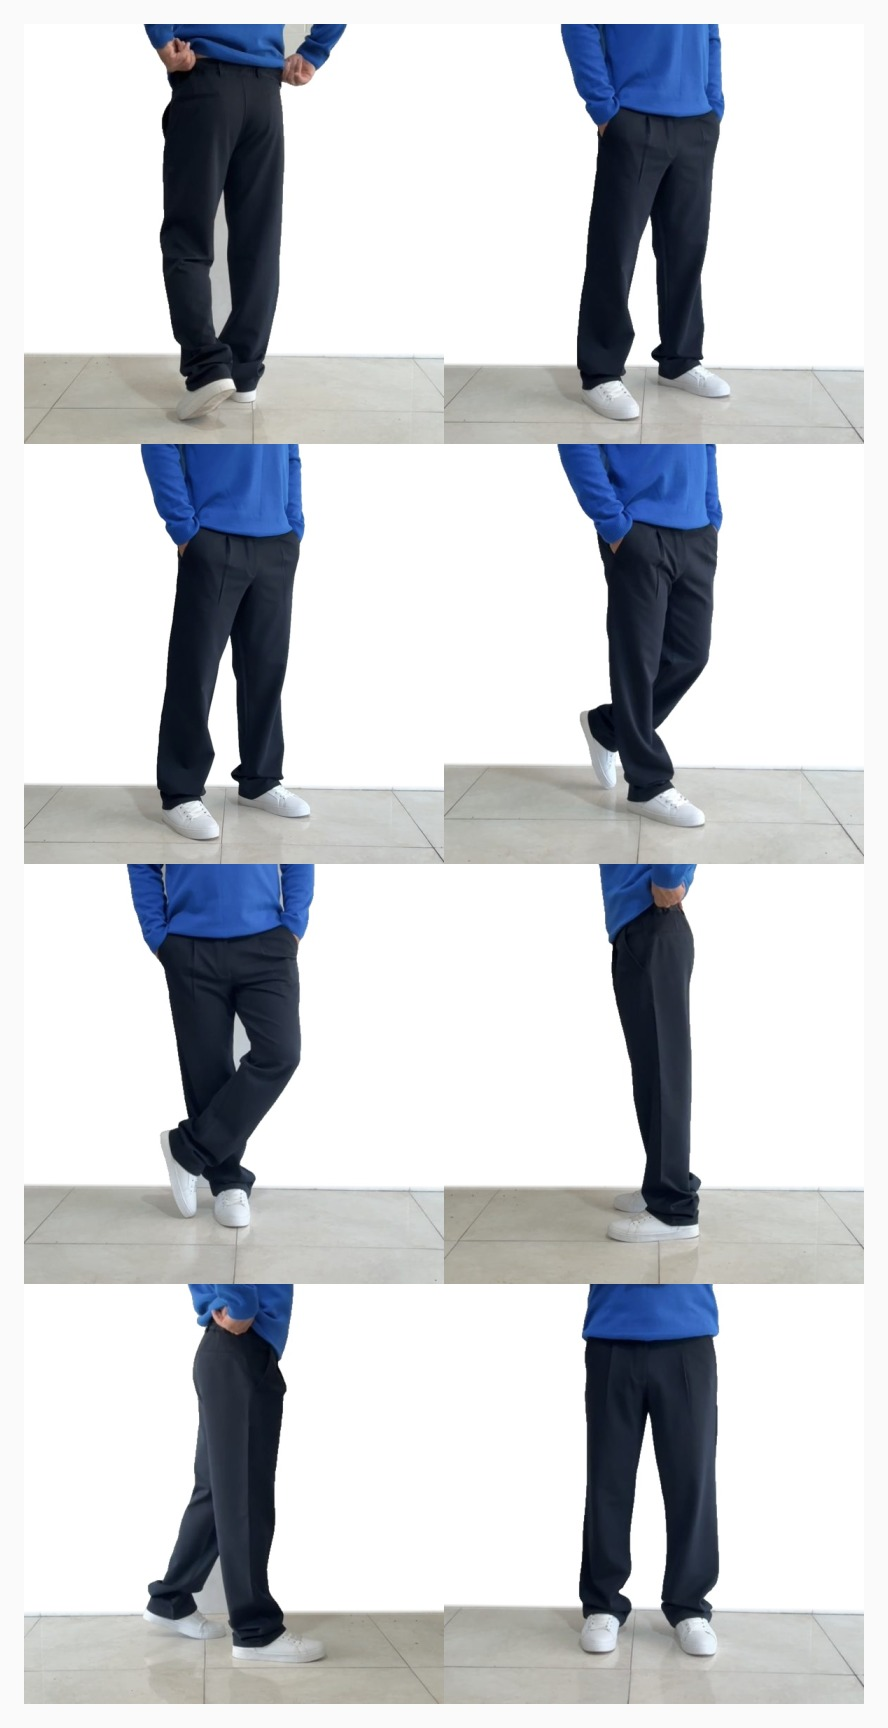
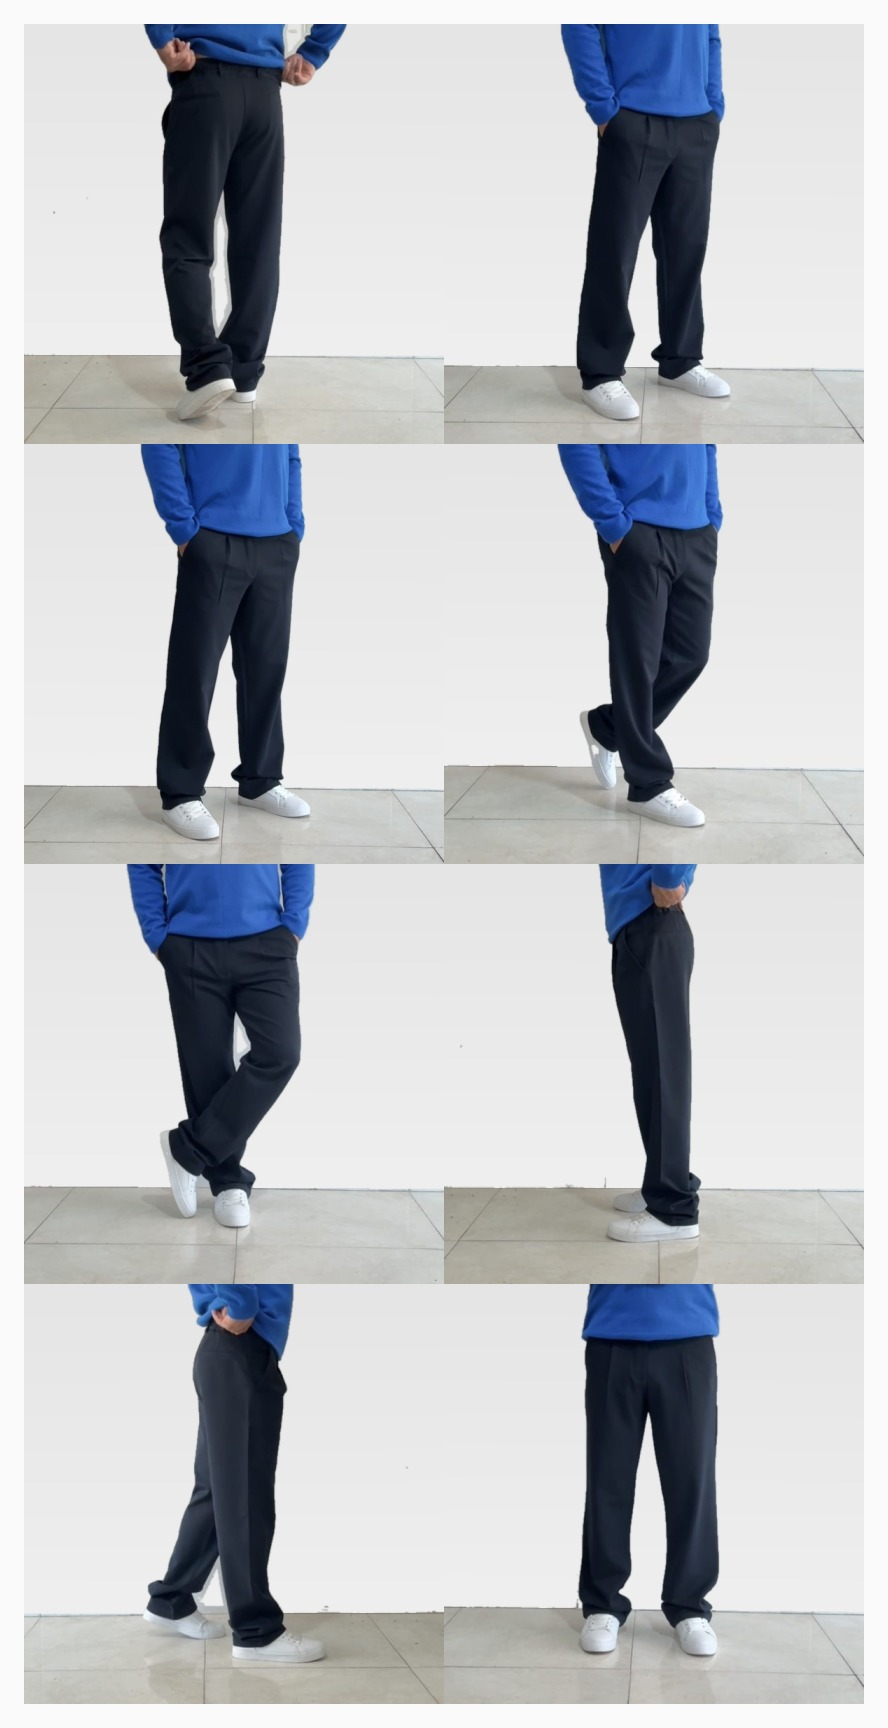
Grey studio wall + clean the gap between the legs
- wall is now a soft light grey (RGB 229 at the top to 239 at the floor
  line) instead of pure white
- the wall colour is applied to every background pixel above the floor
  line, so the narrow slot between the crossed legs is clean as well (the
  cut-out mask used to swallow it and leave the old beige wall showing)
- the shoes are protected: the pale tops right above the floor line keep
  their own pixels instead of fading into the wall
- the floor stays pixel-identical (max |Δ| = 0) and the person's cloth and
  skin are untouched apart from a 1-2 px anti-aliasing at the silhouette

دیوار خاکستری روشن شد و فاصلهٔ بین پاها هم تمیز شد؛ کف و مدل دستنخورده.

diff --git a/photos/README.md b/photos/README.md
@@ -1,7 +1,7 @@
-# Photo set — white wall, original floor
+# Photo set — light grey studio wall, original floor
 
-Eight clothing shots for the shop: the wall behind the model is pure white,
-everything else is the original photograph.
+Eight clothing shots for the shop: the wall behind the model is a soft light
+grey, the floor and the model are the original photograph, untouched.
 
 | What | Where |
 | --- | --- |
@@ -11,26 +11,31 @@ everything else is the original photograph.
 
 ## Output spec
 
-* **Aspect ratio** 1:1 — the uploads were already square, nothing was
-  cropped and no part of the model is cut off.
+* **Aspect ratio** 1:1 — the uploads were already square, nothing was cropped.
 * **Sizes** 600×600 (seven files), 963×963 (`IMG_E2372-Copy.jpg`); the pixel
   size of the originals is kept, no resampling.
-* **Wall** pure white: RGB 255/255/255 behind every background pixel, no
-  cast shadow, no vignette.
-* **Floor** the floor of the original photo, **not touched** — it is already
-  the cream ceramic tile of the shop's floor, so it is kept pixel for pixel
-  (its own reflection/shadow under the shoe included). The wall/floor line
-  is feathered over a few pixels so the white does not cut into the tiles.
-* **Model** untouched — see the check below.
+* **Wall** light grey, a gentle backdrop gradient: RGB 229 at the top edge to
+  239 just above the floor line (neutral, no colour cast), no cast shadow.
+* **Floor** the floor of the original photo, **not touched** — the shop's own
+  cream ceramic tile, pixel for pixel (its natural reflection/shade under the
+  shoes included). The wall/floor line is feathered over ~9 px.
+* **Model** untouched: the wall colour is only applied outside the person,
+  and the space between the legs is cleaned too (see below).
 * **Format** JPEG, quality 96.
 
 ## What is verified, per file
 
-* Every pixel of the floor (below the wall/floor line) is **identical** to
-  the original: max |Δ| = 0.
-* Every pixel of the person (sweater, trousers, shoes, skin) is
-  **identical** to the original: max |Δ| = 0.
-* Background above the wall/floor line is 100 % pure white (255,255,255).
+* Every pixel of the floor (below the wall/floor line): **identical** to the
+  original, max |Δ| = 0.
+* The person's cloth and skin (sweater, trousers, shoes, hands): **identical**
+  to the original — the only change is a soft 1–2 px anti-aliasing at the
+  silhouette edge, which is where the wall colour meets the cut-out.
+* Above the wall/floor line every background pixel is the grey gradient, so
+  no beige patch of the old wall is left — including the narrow slot between
+  the crossed legs, which the cut-out mask used to swallow.
 
-Nothing was regenerated with an image model; the only operation is
-"background → white".
+## Buttons to turn (in the generator)
+
+* wall tones are the two numbers `top=229`, `bottom=239` — raise/lower them
+  for a lighter/darker grey.
+* the floor line comes from `studio_bg.detect_horizon`, per photo.

diff --git a/README.md b/README.md
@@ -1,7 +1,7 @@
 # Ideal — photo workspace
 
 Clothing-store photo set: the eight originals sit in `photos/source/`, the
-finished shots (1:1, pure white wall, original ceramic floor kept untouched)
+finished shots (1:1, light grey wall, original ceramic floor kept untouched)
 in `photos/edited/`. See [`photos/README.md`](photos/README.md) for the details
 and `photos/contact-sheet.jpg` for a contact sheet.
 
@@ -11,7 +11,7 @@ and in this branch's history at commit `cd15fd02801cb403e7f2a760ea94da6a8a2dafb1
 ---
 
 این برنچ برای عکسهای فروشگاه لباس استفاده میشود: عکسهای خام در
-`photos/source/` و خروجیهای نهایی ۱:۱ (دیوار سفید، کف عکس اصلی دستنخورده،
+`photos/source/` و خروجیهای نهایی ۱:۱ (دیوار خاکستری روشن، کف عکس اصلی دستنخورده،
 مدل بدون تغییر) در `photos/edited/` هستند. جزئیات در `photos/README.md`.
 پروژهٔ قبلی (بازی) روی `main` و در تاریخچهٔ همین برنچ (کامیت `cd15fd0`)
 کاملاً سالم است.
